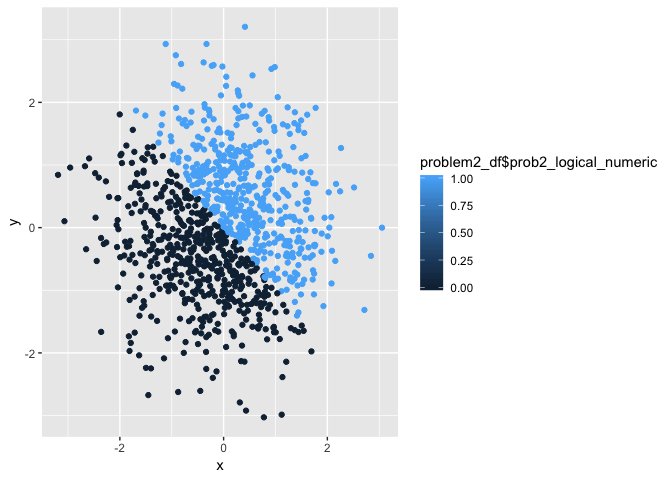
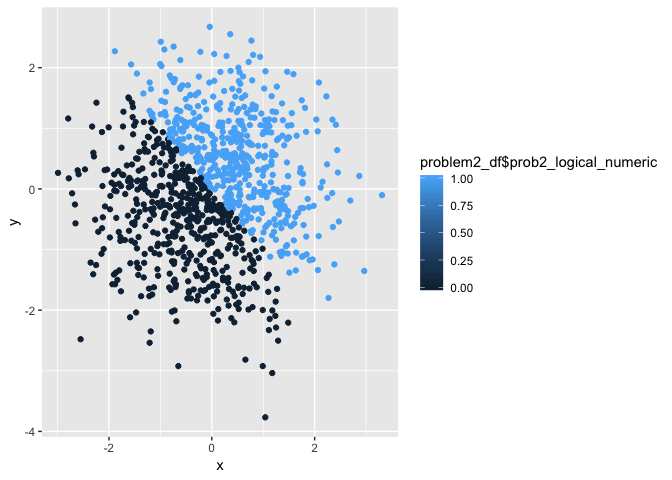
NOW final commit - forgot to set seed and move ggsave to after first plot for reproducibility purposes

diff --git a/p8105_hw1_edm2152.md b/p8105_hw1_edm2152.md
@@ -14,6 +14,8 @@ The code chunk below creates a data frame comprised of:
 -   A (length-10) factor vector
 
 ``` r
+set.seed(91)
+
 problem1_df = tibble(
   prob1_random_sample = runif(10, 0, 5),
   prob1_logical = prob1_random_sample > 2,
@@ -24,9 +26,9 @@ problem1_df = tibble(
 
 Below I try to take the mean of each of the four variables:
 
-The mean of the random sample variable is 3.2661795.
+The mean of the random sample variable is 2.8418693.
 
-The mean of the logical vector variable is 0.9.
+The mean of the logical vector variable is 0.8.
 
 The mean of the character vector variable is NA (this will not work).
 
@@ -72,6 +74,8 @@ Code chunk below will create a data frame comprised of:
 -   A factor vector created by coercing the above logical vector
 
 ``` r
+set.seed(91)
+
 problem2_df = tibble(
   x = rnorm(1000),
   y = rnorm(1000),
@@ -81,15 +85,19 @@ problem2_df = tibble(
 )
 ```
 
-The problem 2 dataset contains 1000 rows (observations) and 5 columns (variables). The mean of x is -0.0486443 and the median of x is -0.0180732. The proportion of cases for which the logical vector is TRUE is 0.491.
+The problem 2 dataset contains 1000 rows (observations) and 5 columns (variables). The mean of x is -0.0575737 and the median of x is -0.0640676. The proportion of cases for which the logical vector is TRUE is 0.494.
 
-First scatterplot of y vs x (color is logical variable):
+First scatterplot of y vs x (color is logical variable) and exporting the first scatterplot to my project directory using ggsave:
 
 ``` r
 ggplot(problem2_df, aes(x = x, y = y, color = problem2_df$prob2_logical)) + geom_point()
 ```
 
 ![](p8105_hw1_edm2152_files/figure-markdown_github/unnamed-chunk-1-1.png)
+
+``` r
+ggsave("./prob2_first_scatter_plot.pdf", height = 4, width = 6)
+```
 
 Second scatterplot of y vs x (color is numeric variable):
 
@@ -108,9 +116,3 @@ ggplot(problem2_df, aes(x = x, y = y, color = problem2_df$prob2_logical_factor))
 ![](p8105_hw1_edm2152_files/figure-markdown_github/unnamed-chunk-3-1.png)
 
 Since the second plot involves a numeric variable, r assigns a color scale between 0 and 1 despite the fact that there are no values between 0 and 1. This differs from the logical and factor variable plots where r recognizes TRUE and FALSE as 1 and 0, respectively, but creates a binary color scheme and no scale between 0 and 1.
-
-Exporting the first scatterplot to my project directory using ggsave:
-
-``` r
-ggsave("./prob2_first_scatter_plot.pdf", height = 4, width = 6)
-```
